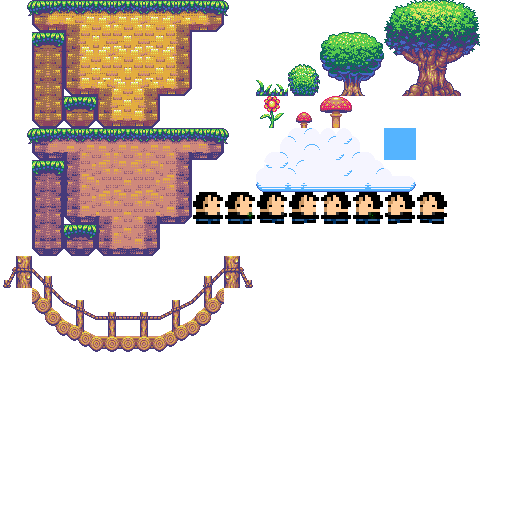
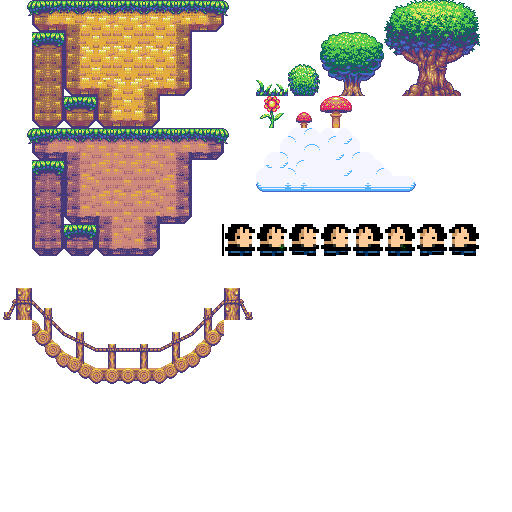
OpenGL tile bleeding cleanup

Changed region(s): [[0.0, 0.375, 0.9375, 0.75], [0.75, 0.25, 0.8125, 0.3125]]

diff --git a/src/extra/tmxloader.cpp b/src/extra/tmxloader.cpp
@@ -54,26 +54,23 @@
 #include "game/tilemapscenelayer.h"
 #include "game/tilesetcomponent.h"
 
-#include <tinyxml2.h>
-
 #include <map>
 
-#define TMXLAYER_DATA_NODE    "data"
-#define TMXLAYER_NODE         "layer"
-#define TMXTILESET_IMAGE_NODE "image"
-#define TMXTILESET_NODE       "tileset"
-#define TMXOBJECTGROUP_NODE   "objectgroup"
-#define TMXOBJECTGROUP_OBJECT_NODE "object"
+#include <tinyxml2.h>
 
-#define TMXPROPERTIES_NODE    "properties"
+#define TMXLAYER_DATA_NODE          "data"
+#define TMXLAYER_NODE               "layer"
+#define TMXTILESET_IMAGE_NODE       "image"
+#define TMXTILESET_NODE             "tileset"
+#define TMXOBJECTGROUP_NODE         "objectgroup"
+#define TMXOBJECTGROUP_OBJECT_NODE  "object"
+
+#define TMXPROPERTIES_NODE          "properties"
 #define TMXPROPERTIES_PROPERTY_NODE "property"
 
-MARSHMALLOW_NAMESPACE_USE
-using namespace Extra;
+MARSHMALLOW_NAMESPACE_BEGIN
+namespace { /******************************************** Anonymous Namespace */
 
-/******************************************************************************/
-
-namespace {
 	typedef std::map<uint16_t, Graphics::SharedTileset> TilesetCollection;
 
 	Graphics::Color
@@ -83,9 +80,10 @@ namespace {
 		                       static_cast<float>(p[1]) / 255.f,
 		                       static_cast<float>(p[2]) / 255.f));
 	}
-} // namespace
 
-/******************************************************************************/
+} /****************************************************** Anonymous Namespace */
+
+namespace Extra { /****************************************** Extra Namespace */
 
 struct TMXLoader::Private
 {
@@ -172,26 +170,8 @@ TMXLoader::Private::processMap(XMLElement &m)
 		return(false);
 	}
 
-	/* calculate default scale */
-	const Math::Size2f &l_vsize = Graphics::Viewport::Size();
-	if (map_size.width() < map_size.height()) {
-		scale[0] = l_vsize.width()  / static_cast<float>(map_size.width()  * tile_size.width());
-		scale[1] = scale.width() * static_cast<float>(tile_size.height() / tile_size.width());
-		MMINFO("Calculated scale based off map size width.");
-	}
-	if (map_size.width() > map_size.height()) {
-		scale[1] = l_vsize.height() / static_cast<float>(map_size.height() * tile_size.height());
-		scale[0] = scale.height() * static_cast<float>(tile_size.width() / tile_size.height());
-		MMINFO("Calculated scale based off map size height.");
-	}
-	else scale[0] = scale[1] = l_vsize.height() / static_cast<float>(map_size.height() * tile_size.height());
-	MMINFO("Calculated map scale size (" << scale.width() << "x" << scale.height() << ")");
-
-	/* calculate half-relative map size (used to offset coordinates) */
-	hrmap_size[0] = scale.width()
-	    * static_cast<float>(map_size.width() * tile_size.width());
-	hrmap_size[1] = scale.height()
-	    * static_cast<float>(map_size.height() * tile_size.height());
+	/* default scale */
+	scale[0] = scale[1] = 1.f;
 
 	/* process properties */
 	XMLElement *l_properties = m.FirstChildElement(TMXPROPERTIES_NODE);
@@ -203,14 +183,15 @@ TMXLoader::Private::processMap(XMLElement &m)
 			continue;
 
 		/* scale property */
-		if (MMSTRCASECMP(l_pname, "scale") == 0) {
+		if (0 == MMSTRCASECMP(l_pname, "scale")) {
 			const char *l_value = l_property->Attribute("value");
 			if (!l_value) {
 				MMWARNING("Skipping incomplete scale property.");
 				continue;
 			}
 
-			if (MMSTRCASECMP(l_value, "screen") == 0) {
+			if (0 == MMSTRCASECMP(l_value, "screen")) {
+				const Math::Size2f &l_vsize = Graphics::Viewport::Size();
 				const Math::Size2i &l_wsize = Graphics::Viewport::WindowSize();
 
 				/*
@@ -236,7 +217,7 @@ TMXLoader::Private::processMap(XMLElement &m)
 		/*
 		 * Parse scene background color
 		 */
-		else if (MMSTRCASECMP(l_pname, "bgcolor") == 0) {
+		else if (0 == MMSTRCASECMP(l_pname, "bgcolor")) {
 			const char *l_value = l_property->Attribute("value");
 			if (!l_value) {
 				MMWARNING("Skipping incomplete background color property.");
@@ -263,6 +244,14 @@ TMXLoader::Private::processMap(XMLElement &m)
 		}
 
 	} while ((l_property = l_property->NextSiblingElement(TMXPROPERTIES_PROPERTY_NODE)));
+
+	MMINFO("Map scale size (" << scale.width() << "x" << scale.height() << ")");
+
+	/* calculate half-relative map size (used to offset coordinates) */
+	hrmap_size[0] = scale.width()
+	    * static_cast<float>(map_size.width()  * tile_size.width());
+	hrmap_size[1] = scale.height()
+	    * static_cast<float>(map_size.height() * tile_size.height());
 
 	return(true);
 }
@@ -364,14 +353,14 @@ TMXLoader::Private::processLayer(XMLElement &e)
 			continue;
 
 		/* scale property */
-		if (strcmp(l_pname, "scale") == 0) {
+		if (0 == strcmp(l_pname, "scale")) {
 			if (!l_value) {
 				MMWARNING("Skipping incomplete scale property.");
 				continue;
 			}
 
 			Math::Size2f l_scale = l_layer->scale();
-			if (MMSTRCASECMP(l_value, "screen") == 0) {
+			if (0 == MMSTRCASECMP(l_value, "screen")) {
 				const Math::Size2f &l_vsize = Graphics::Viewport::Size();
 				const Math::Size2i &l_wsize = Graphics::Viewport::WindowSize();
 
@@ -599,7 +588,7 @@ TMXLoader::Private::processTileset(XMLElement &e)
 	return(true);
 }
 
-/******************************************************************************/
+/****************************************************************** TMXLoader */
 
 TMXLoader::TMXLoader(Game::IScene &s)
     : m_p(new Private(s))
@@ -628,4 +617,7 @@ TMXLoader::load(const char *f)
 {
 	return(m_p->load(f));
 }
+
+} /******************************************************* Graphics Namespace */
+MARSHMALLOW_NAMESPACE_END
 

diff --git a/demos/platformer/playerentity.cpp b/demos/platformer/playerentity.cpp
@@ -75,19 +75,19 @@ PlayerEntity::update(float d)
 
 		m_animation_component =
 		    new Game::AnimationComponent("animation", *this);
-		m_animation_component->pushFrame("stand-left",  106, 12);
-		m_animation_component->pushFrame("stand-left",  107, 4);
-		m_animation_component->pushFrame("walk-left", 108, 1);
-		m_animation_component->pushFrame("walk-left", 109, 1);
+		m_animation_component->pushFrame("stand-left",  123, 12);
+		m_animation_component->pushFrame("stand-left",  124, 4);
+		m_animation_component->pushFrame("walk-left", 125, 1);
+		m_animation_component->pushFrame("walk-left", 126, 1);
 		m_animation_component->setFrameRate("walk-left", 16);
-		m_animation_component->pushFrame("jump-left", 108, 1);
+		m_animation_component->pushFrame("jump-left", 125, 1);
 		m_animation_component->setFrameRate("jump-left", 1);
-		m_animation_component->pushFrame("stand-right", 102, 12);
-		m_animation_component->pushFrame("stand-right", 103, 4);
-		m_animation_component->pushFrame("walk-right", 104, 1);
-		m_animation_component->pushFrame("walk-right", 105, 1);
+		m_animation_component->pushFrame("stand-right", 119, 12);
+		m_animation_component->pushFrame("stand-right", 120, 4);
+		m_animation_component->pushFrame("walk-right", 121, 1);
+		m_animation_component->pushFrame("walk-right", 122, 1);
 		m_animation_component->setFrameRate("walk-right", 16);
-		m_animation_component->pushFrame("jump-right", 105, 1);
+		m_animation_component->pushFrame("jump-right", 121, 1);
 		m_animation_component->setFrameRate("jump-right", 1);
 		pushComponent(m_animation_component.staticCast<Game::IComponent>());
 

diff --git a/demos/tilemap/inputcomponent.cpp b/demos/tilemap/inputcomponent.cpp
@@ -50,7 +50,7 @@ const Core::Type InputComponent::Type("InputComponent");
 
 InputComponent::InputComponent(const Core::Identifier &i, Game::IEntity &e)
     : ComponentBase(i, e)
-    , m_linear_impulse(40.f)
+    , m_linear_impulse(80.f)
     , m_direction(ICDRight)
     , m_down(false)
     , m_left(false)
@@ -86,10 +86,10 @@ InputComponent::update(float)
 		    staticCast<Game::MovementComponent>();
 
 		if (m_movement) {
-			m_movement->limitX()[0] = 20;
-			m_movement->limitX()[1] = 20;
-			m_movement->limitY()[0] = 20;
-			m_movement->limitY()[1] = 20;
+			m_movement->limitX()[0] = 80;
+			m_movement->limitX()[1] = 80;
+			m_movement->limitY()[0] = 80;
+			m_movement->limitY()[1] = 80;
 		}
 	}
 
@@ -98,18 +98,22 @@ InputComponent::update(float)
 		switch (direction()) {
 		case  ICDDown:
 			m_movement->acceleration()[1] = -m_linear_impulse;
+			m_movement->acceleration()[0] = 0;
 			m_movement->velocity()[0] = 0;
 			break;
 		case  ICDLeft:
 			m_movement->acceleration()[0] = -m_linear_impulse;
+			m_movement->acceleration()[1] = 0;
 			m_movement->velocity()[1] = 0;
 			break;
 		case ICDRight:
 			m_movement->acceleration()[0] = m_linear_impulse;
+			m_movement->acceleration()[1] = 0;
 			m_movement->velocity()[1] = 0;
 			break;
 		case    ICDUp:
 			m_movement->acceleration()[1] = m_linear_impulse;
+			m_movement->acceleration()[0] = 0;
 			m_movement->velocity()[0] = 0;
 			break;
 		}

diff --git a/src/graphics/tilesetbase.cpp b/src/graphics/tilesetbase.cpp
@@ -44,12 +44,6 @@
 
 #include <tinyxml2.h>
 
-#if MARSHMALLOW_VIEWPORT_OPENGL
-#  define TILE_ADJUSTMENT 0.001f
-#else
-#  define TILE_ADJUSTMENT 0.f
-#endif
-
 MARSHMALLOW_NAMESPACE_BEGIN
 namespace Graphics { /************************************ Graphics Namespace */
 
@@ -189,10 +183,10 @@ TilesetBase::getTextureCoordinateData(uint16_t i)
 		const int l_row = i / m_p->size.width();
 		const int l_col = i % m_p->size.width();
 
-		const float l_left   = m_p->offset_col[l_col] + TILE_ADJUSTMENT;
-		const float l_top    = m_p->offset_row[l_row] + TILE_ADJUSTMENT;
-		const float l_right  = m_p->offset_col[l_col + 1] - m_p->spacing_col - TILE_ADJUSTMENT;
-		const float l_bottom = m_p->offset_row[l_row + 1] - m_p->spacing_row - TILE_ADJUSTMENT;
+		const float l_left   = m_p->offset_col[l_col];
+		const float l_top    = m_p->offset_row[l_row];
+		const float l_right  = m_p->offset_col[l_col + 1] - m_p->spacing_col;
+		const float l_bottom = m_p->offset_row[l_row + 1] - m_p->spacing_row;
 
 		l_data->set(0, l_left,  l_top);
 		l_data->set(1, l_left,  l_bottom);

diff --git a/include/extra/tmxloader.h b/include/extra/tmxloader.h
@@ -46,20 +46,17 @@
 #include <list>
 
 MARSHMALLOW_NAMESPACE_BEGIN
-
-namespace Graphics
-{
+namespace Graphics { /************************************ Graphics Namespace */
 	struct ITileset;
 	typedef Core::Shared<ITileset> SharedTileset;
-}
+} /******************************************************* Graphics Namespace */
 
-namespace Game
-{
+namespace Game { /******************************************** Game Namespace */
 	typedef std::list<SharedSceneLayer> SharedSceneLayerList;
-}
+} /*********************************************************** Game Namespace */
 
-namespace Extra
-{
+namespace Extra { /****************************************** Extra Namespace */
+
 	/*! @brief Extra TMX Loader Class */
 	class MARSHMALLOW_EXTRA_EXPORT
 	TMXLoader
@@ -80,8 +77,8 @@ namespace Extra
 	};
 	typedef Core::Shared<TMXLoader> SharedTMXLoader;
 	typedef Core::Weak<TMXLoader> WeakTMXLoader;
-}
 
+} /********************************************************** Extra Namespace */
 MARSHMALLOW_NAMESPACE_END
 
 #endif
